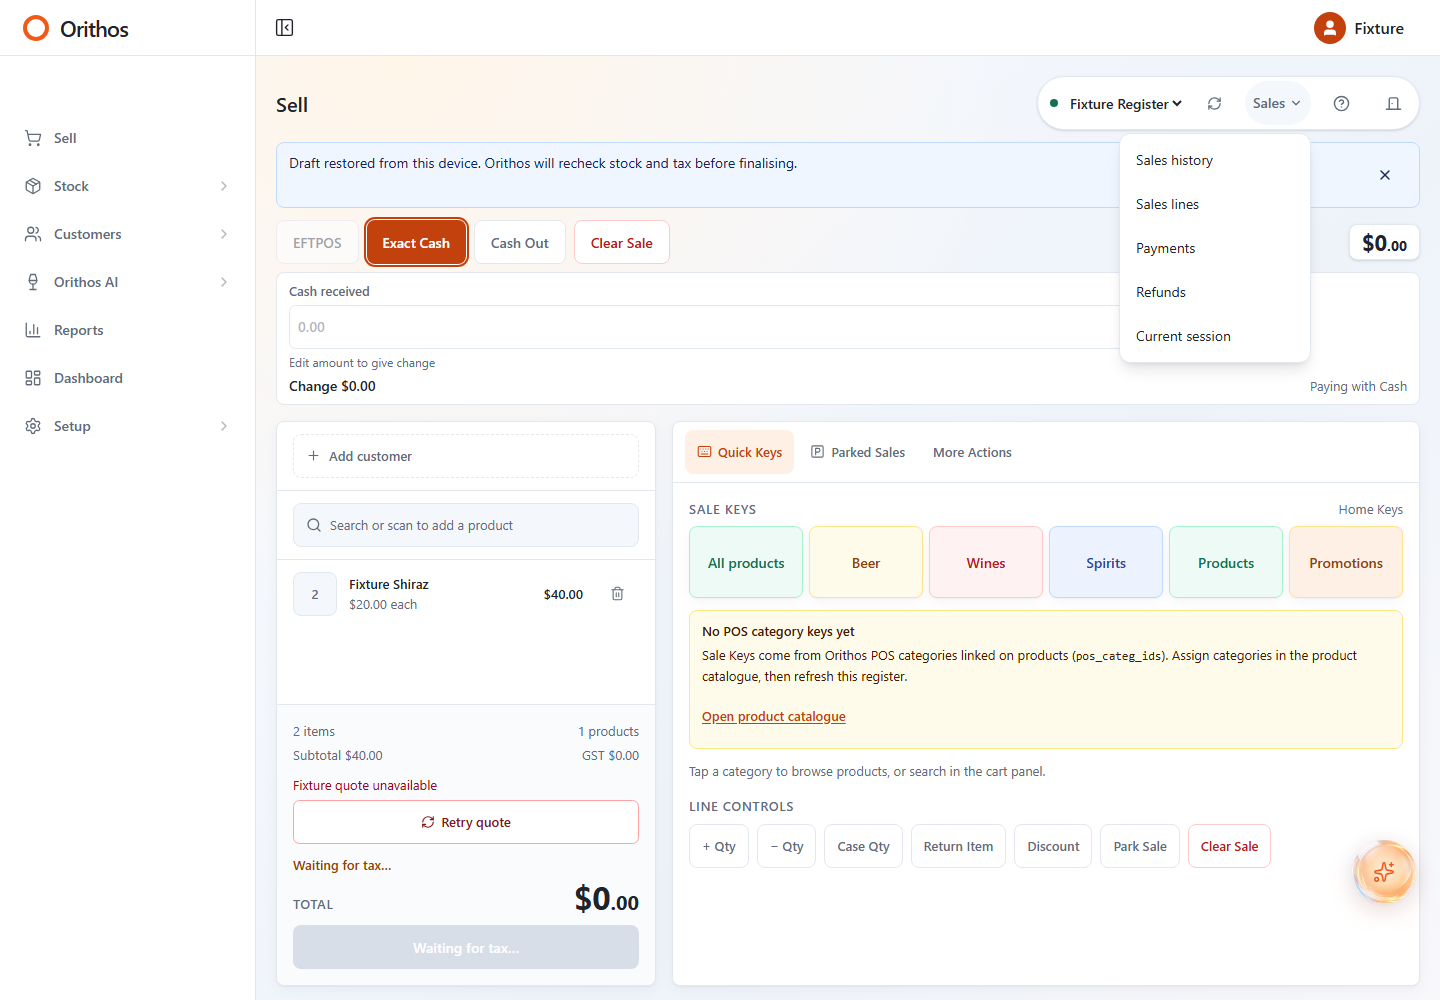
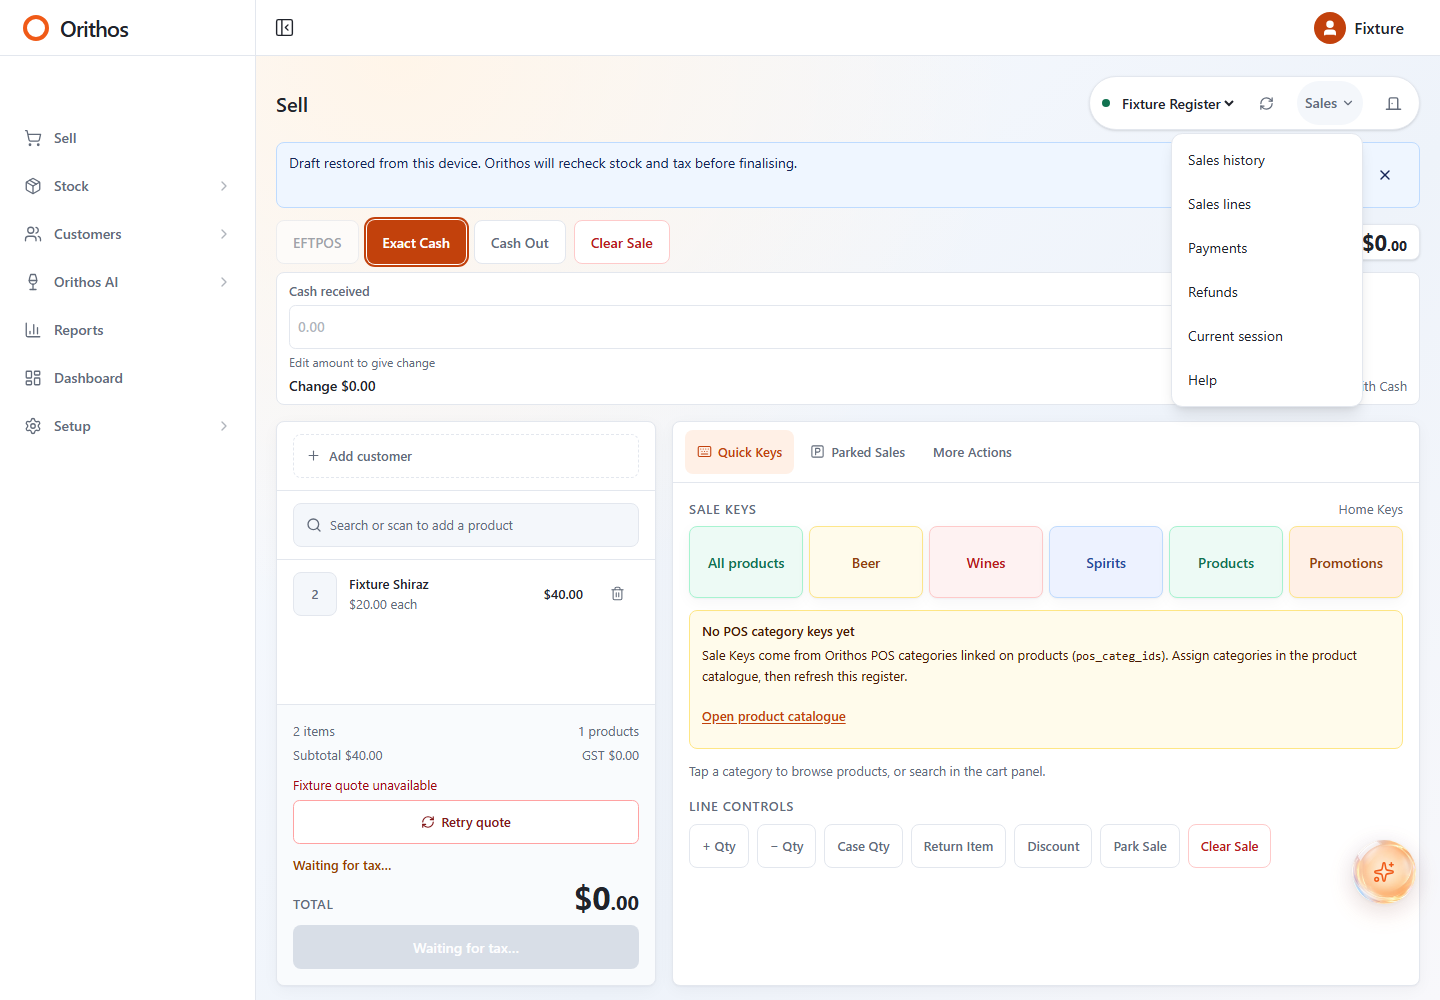
refactor(ui): move POS help into Sales menu

Changed region(s): [[0.7812, 0.155, 0.875, 0.403], [0.75, 0.093, 0.9375, 0.124], [0.9062, 0.372, 0.9375, 0.403]]

diff --git a/pos-ui/src/components/SalesMenu.tsx b/pos-ui/src/components/SalesMenu.tsx
@@ -11,7 +11,7 @@ import { useAuth } from "@/lib/auth";
 
 type Config = OdooPosBootstrap["configs"][number];
 
-export function SalesMenu({ config }: { config?: Config | null }) {
+export function SalesMenu({ config, onHelp }: { config?: Config | null; onHelp: () => void }) {
   const { hasPermission } = useAuth();
   const allowed = ["sell.checkout", "sell.refund", "reports.dashboard"].some(hasPermission);
   const { openSalesHistory } = useSalesHistoryUiOptional();
@@ -27,7 +27,7 @@ export function SalesMenu({ config }: { config?: Config | null }) {
     return () => { document.removeEventListener("pointerdown", closeOutside); document.removeEventListener("keydown", closeEscape); };
   }, []);
   if (!allowed) return null;
-  const items = [["history", "Sales history"], ["lines", "Sales lines"], ["payments", "Payments"], ["refunds", "Refunds"], ["session", "Current session"]] as const;
+  const items = [["history", "Sales history"], ["lines", "Sales lines"], ["payments", "Payments"], ["refunds", "Refunds"], ["session", "Current session"], ["help", "Help"]] as const;
   return <>
     <details ref={menu} className="relative shrink-0">
       <summary aria-label="Sales menu" className="flex min-h-11 cursor-pointer list-none items-center gap-1 rounded-full px-2 text-sm font-semibold text-[var(--oh-text-secondary)] hover:bg-[var(--oh-surface)] focus-visible:outline-2 focus-visible:outline-[var(--oh-primary)] [&::-webkit-details-marker]:hidden">Sales <ChevronDown size={14} /></summary>
@@ -35,6 +35,7 @@ export function SalesMenu({ config }: { config?: Config | null }) {
         {items.map(([key, label]) => <button key={key} type="button" onClick={() => {
           menu.current?.removeAttribute("open"); menu.current?.querySelector("summary")?.focus();
           if (key === "history" || key === "refunds") openSalesHistory(key === "refunds" ? "refunded" : "all");
+          else if (key === "help") onHelp();
           else setView(key);
         }} className="block min-h-11 w-full rounded-lg px-3 text-left text-sm hover:bg-[var(--oh-surface)] focus-visible:outline-2 focus-visible:outline-[var(--oh-primary)]">{label}</button>)}
       </div>

diff --git a/pos-ui/src/components/OdooRegisterPage.tsx b/pos-ui/src/components/OdooRegisterPage.tsx
@@ -2,7 +2,7 @@
 
 import { useCallback, useEffect, useMemo, useRef, useState } from "react";
 import Link from "next/link";
-import { Check, CircleAlert, CircleHelp, DoorClosed, LoaderCircle, Printer, RefreshCw, X } from "lucide-react";
+import { Check, CircleAlert, DoorClosed, LoaderCircle, Printer, RefreshCw, X } from "lucide-react";
 import { SalesMenu } from "@/components/SalesMenu";
 import { useCloseRegisterUiOptional } from "@/components/CloseRegisterUiProvider";
 import { useSalesHistoryUiOptional } from "@/components/SalesHistoryUiProvider";
@@ -1252,10 +1252,7 @@ export function OdooRegisterPage() {
             <button type="button" onClick={() => void loadPos()} disabled={refreshing} title="Refresh register data" aria-label="Refresh register data" className="grid h-11 w-11 shrink-0 place-items-center rounded-full text-[var(--oh-text-secondary)] hover:bg-[var(--oh-surface)] disabled:opacity-60">
               {refreshing ? <LoaderCircle size={15} className="animate-spin" /> : <RefreshCw size={15} />}
             </button>
-            <SalesMenu config={selectedConfig} />
-            <button type="button" onClick={() => setHelpOpen(true)} title="POS help and recovery" aria-label="POS help and recovery" className="grid h-11 w-11 shrink-0 place-items-center rounded-full text-[var(--oh-text-secondary)] hover:bg-[var(--oh-surface)]">
-              <CircleHelp size={17} />
-            </button>
+            <SalesMenu config={selectedConfig} onHelp={() => setHelpOpen(true)} />
             <button type="button" onClick={requestCloseRegister} title="Close register" aria-label="Close register" className="grid h-11 w-11 shrink-0 place-items-center rounded-full text-[var(--oh-text-secondary)] hover:bg-[var(--oh-surface)]">
               <DoorClosed size={17} />
             </button>

diff --git a/docs/WORKSPACE_MENUS_2026-11-02.md b/docs/WORKSPACE_MENUS_2026-11-02.md
@@ -5,7 +5,7 @@
 - Products → More → Catalogue / Inventory / Stocktake. Each opens a dialog. Existing management/import/export actions remain available after these entries.
 - Purchases → Orders / Invoices / Suppliers / Replenishment. More → Stock Transfers retains the existing transfer workspace.
 - Stock sidebar now contains Products and Purchasing; the duplicate standalone Suppliers entry is removed. Supplier permissions and the existing supplier URL remain available.
-- Sell upper-right toolbar → Sales → Sales history / Sales lines / Payments / Refunds / Current session. Each opens a dialog without navigating away from Sell.
+- Sell upper-right toolbar → Sales → Sales history / Sales lines / Payments / Refunds / Current session / Help. Each opens a dialog without navigating away from Sell. Help reuses the existing POS help and recovery dialog; the separate toolbar question-mark button is removed.
 
 ## Data meaning
 
@@ -22,6 +22,6 @@ Reuse the purchasing workspace, supplier directory, sales-history provider and s
 
 - Node 24 TypeScript and targeted ESLint pass.
 - Real route with in-memory RPC transport: 14 passing checks for permissions, company/warehouse scope, search, pagination, metadata, invalid filters and sanitized provider failures. Evidence: `UAT_WORKSPACE_RECORDS_ROUTE_LOCAL_2026-11-02.json`.
-- Intercepted Chromium UI fixtures: 44 passing checks across 390px and 1440px for menu order, dialogs, pagination, error/retry availability, Refunded filter, session refresh, viewport/menu fit, a single Suppliers navigation entry and nonempty cart persistence. Purchases More opens toward the available screen space on narrow screens. Evidence: `UAT_WORKSPACE_MENUS_LOCAL_2026-11-02.json`.
+- Intercepted Chromium UI fixtures: 46 passing checks across 390px and 1440px for menu order, dialogs (including Help), pagination, error/retry availability, Refunded filter, session refresh, viewport/menu fit, a single Suppliers navigation entry and nonempty cart persistence. Purchases More opens toward the available screen space on narrow screens. Evidence: `UAT_WORKSPACE_MENUS_LOCAL_2026-11-02.json`.
 - Sales dropdown follow-up: reproduced clipping on both viewports using `elementFromPoint` hit checks for every menu item. The toolbar's `overflow-x-auto` clipped the absolutely positioned dropdown. Removed that overflow, allowed the register selector to shrink, kept Sales from shrinking, and raised the header stacking context above the sale panels. All five item centers now hit the actual buttons; screenshot evidence: `screenshots/workspace-menus-2026-11-02/sales-dropdown-390.png` and `sales-dropdown-1440.png`. The previous existence/order/modal tests alone did not detect clipping.
 - Fixtures prove UI/route behavior only. They do not establish live imported-data completeness, business acceptance or deployment identity. Deployment verification is recorded separately when available.

diff --git a/docs/HANDOFF_2026-10-29_CURRENT.md b/docs/HANDOFF_2026-10-29_CURRENT.md
@@ -2,6 +2,7 @@
 
 ## 2026-11-02 Products / Purchases / Sell menu organization
 
+- Follow-up: moved Help to the end of the Sales dropdown and removed its standalone toolbar icon. It invokes the existing register help dialog; help content and checkout behavior remain unchanged.
 - Follow-up: fixed the Sales dropdown being clipped by toolbar horizontal overflow; the header now stacks above sale panels and the register selector shrinks on narrow screens. Removed Stock's duplicate Suppliers sidebar entry; Purchases retains its supplier tab. Reproduced the original failure on 390/1440 with actual hit testing; 44 UI fixture checks now pass, including unobscured menu items, the single Suppliers entry, dialogs and cart preservation. No live business writes or deployment claim from fixtures.
 - Implemented the requested Products More entries (Catalogue, Inventory, Stocktake), purchasing tab order (Orders, Invoices, Suppliers, Replenishment; More → Stock Transfers), and Sell upper-right Sales dropdown with five dialog entries. Existing business write flows are reused.
 - Added scoped, read-only Odoo catalogue/inventory/sales-line/payment queries with search and pagination. Catalogue is product-level; Inventory is internal-location record-level. These views do not read crawler/staging tables or establish migration-count parity.
